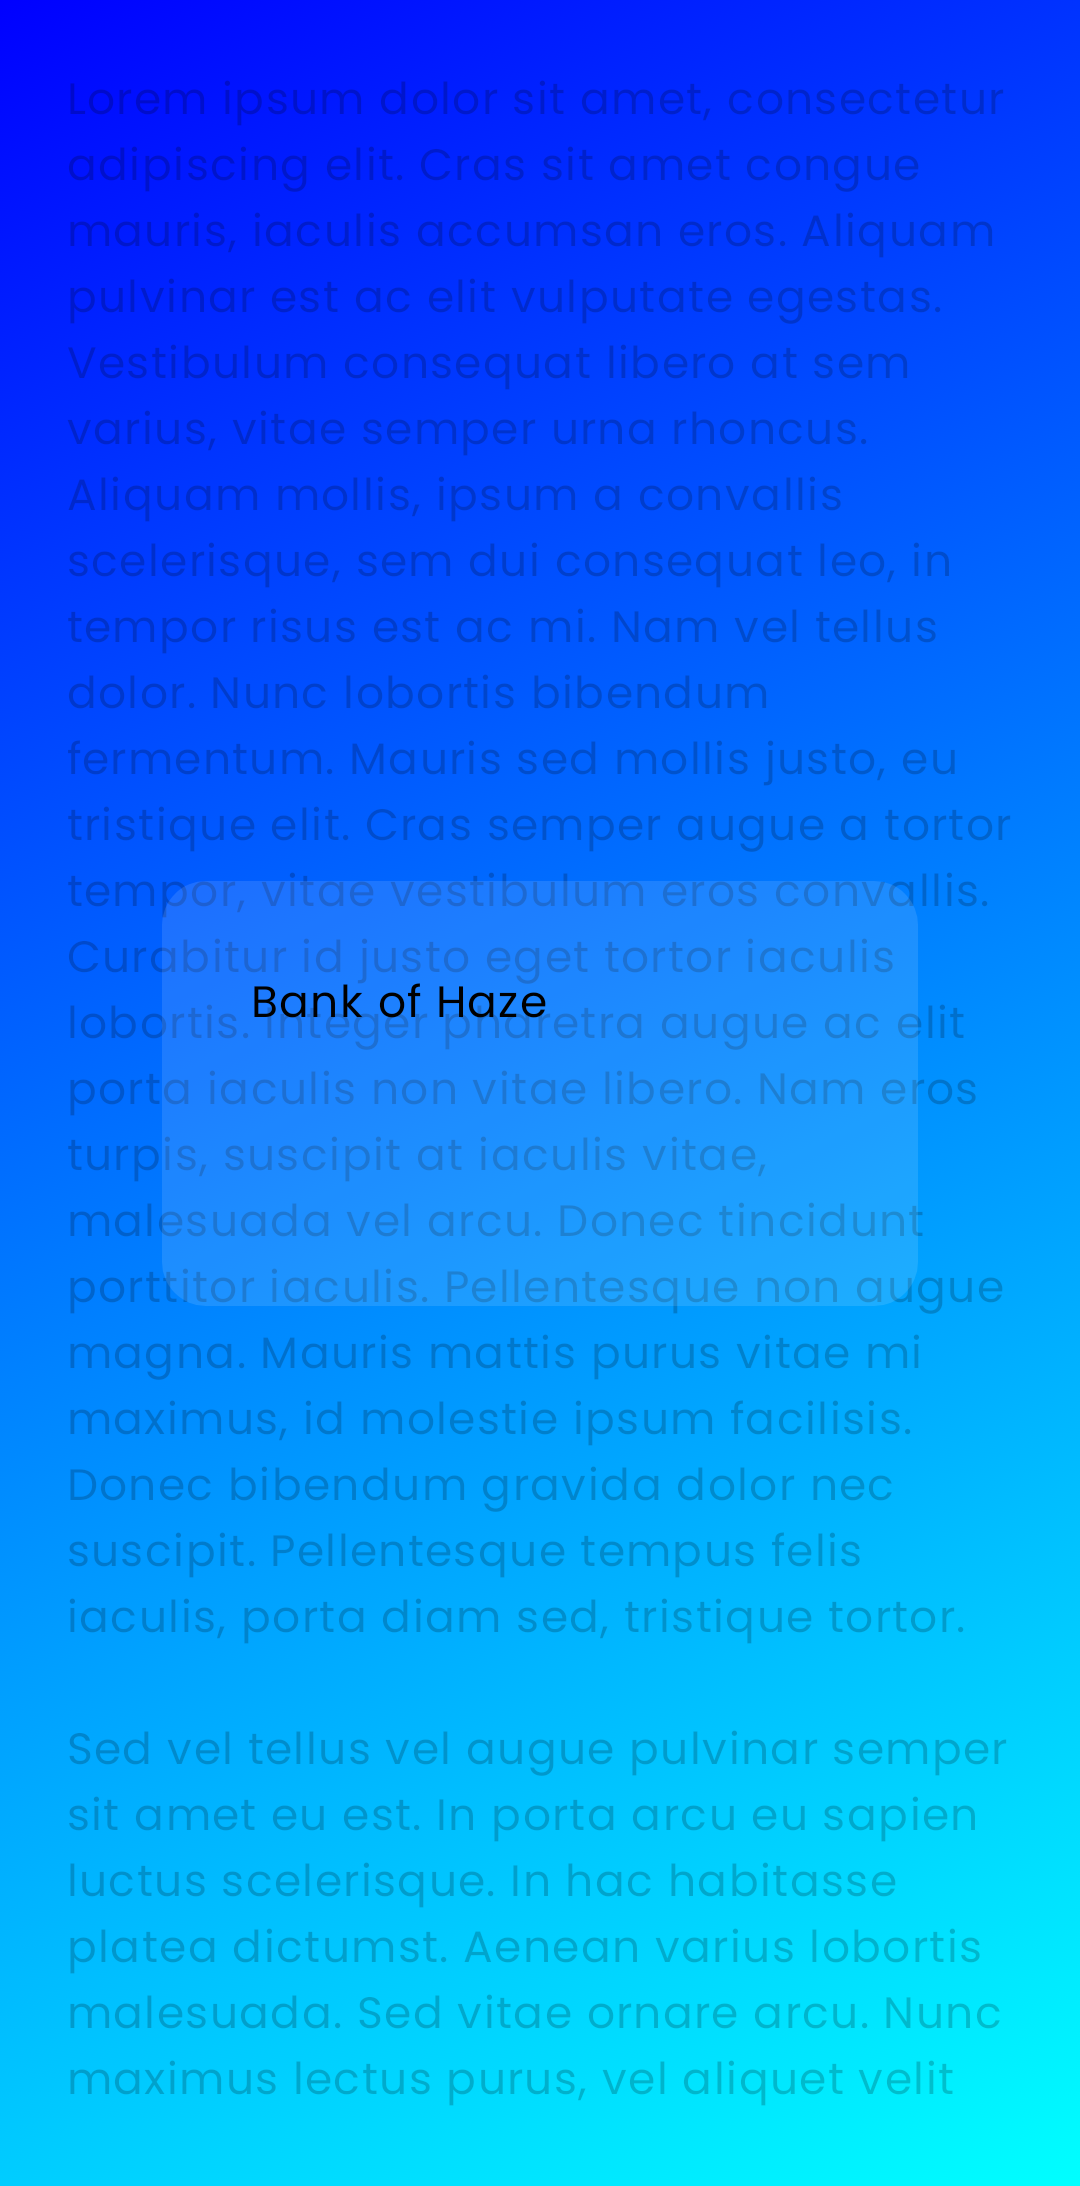
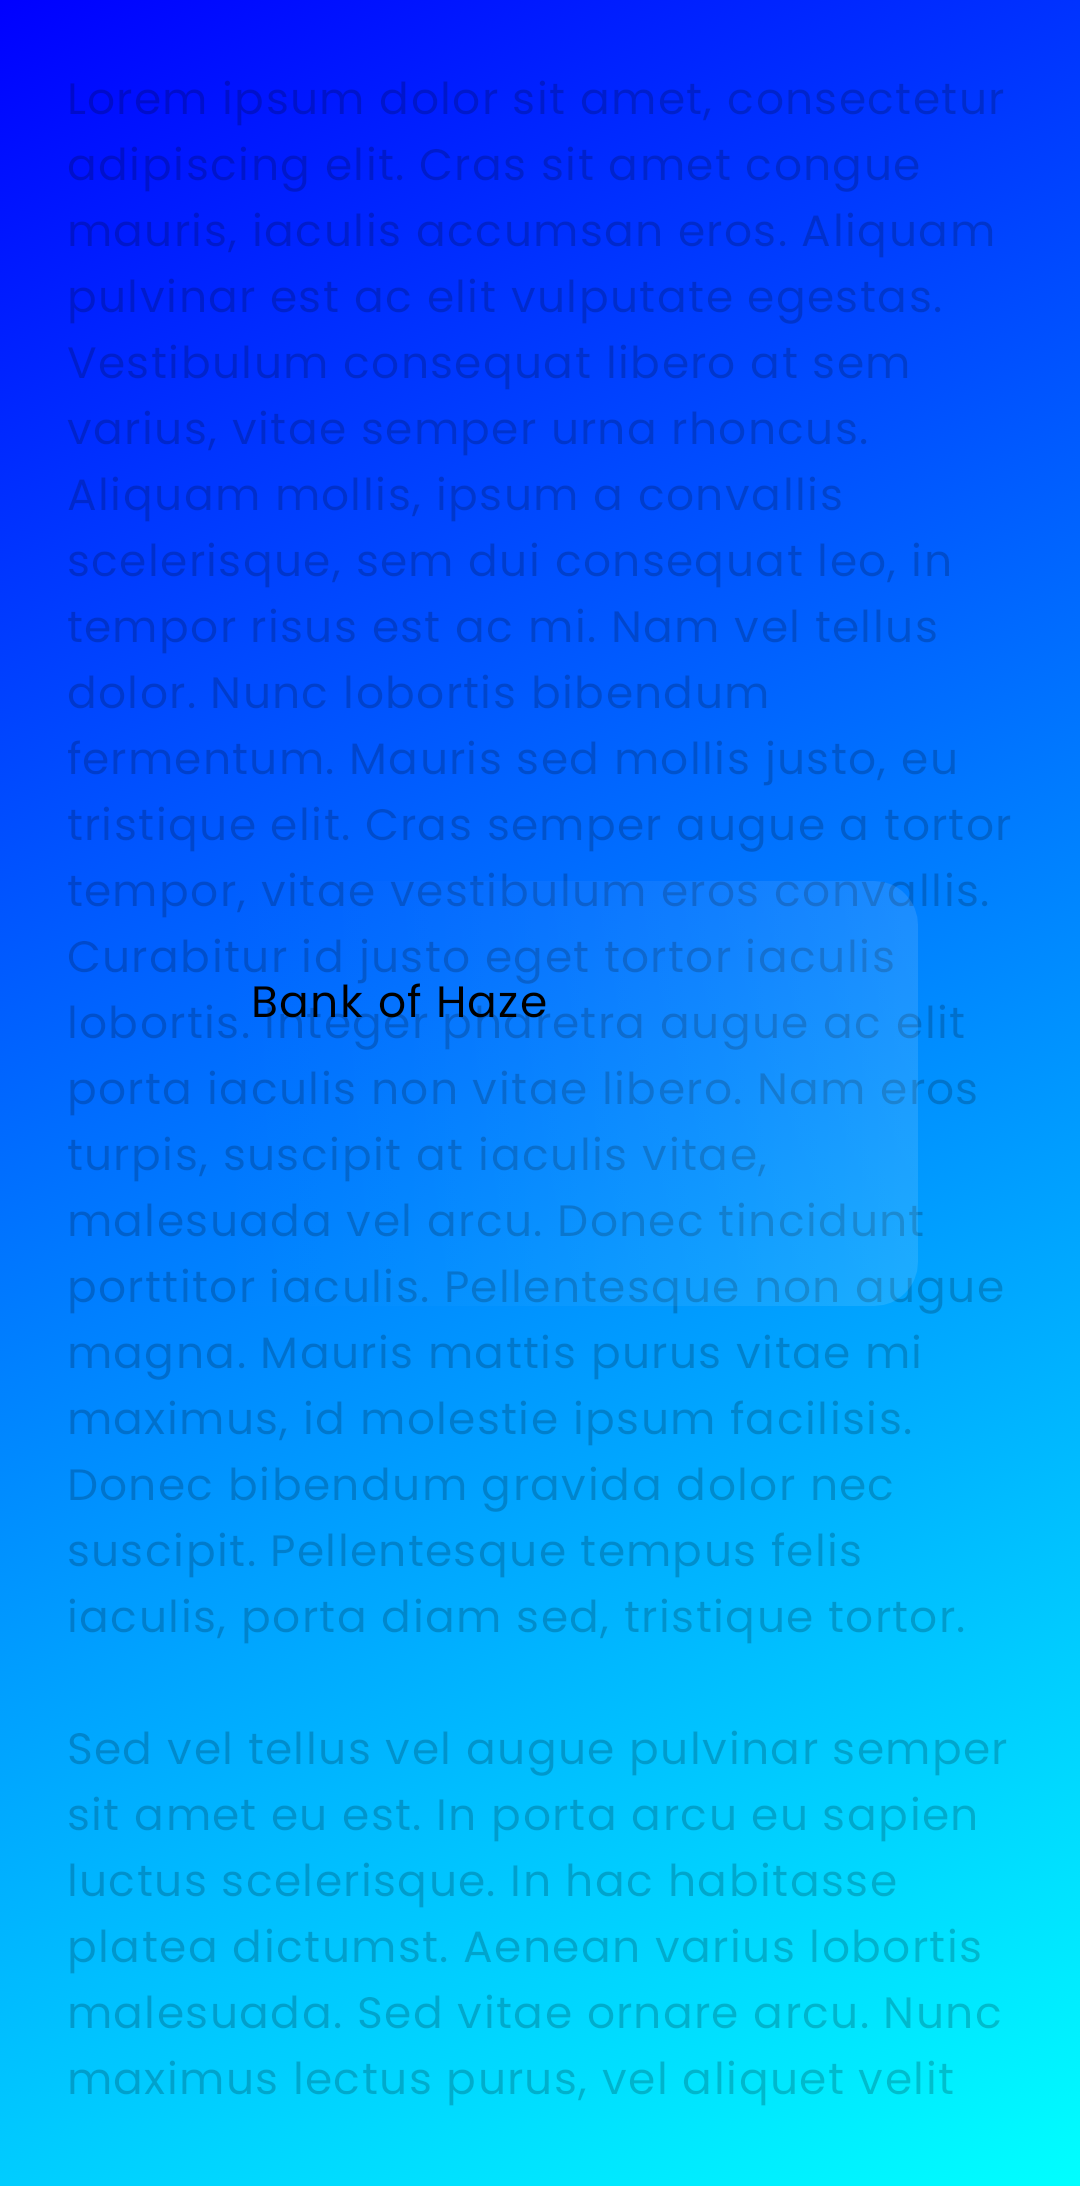
Implement fallback for HazeProgressive

Changed region(s): [[0.1528, 0.4044, 0.3972, 0.6221]]

diff --git a/haze/src/commonMain/kotlin/dev/chrisbanes/haze/HazeChildNode.kt b/haze/src/commonMain/kotlin/dev/chrisbanes/haze/HazeChildNode.kt
@@ -331,25 +331,28 @@ class HazeChildNode(
   private fun DrawScope.drawEffectWithScrim() {
     val scrimTint = resolveFallbackTint().takeIf { it.isSpecified }
       ?: resolveTints().firstOrNull()?.boostForFallback(resolveBlurRadius().takeOrElse { 0.dp })
+      ?: return
 
-    fun scrim() {
-      if (scrimTint != null) {
-        val m = mask
-        if (m != null) {
-          drawRect(brush = m, colorFilter = ColorFilter.tint(scrimTint.color))
-        } else {
-          drawRect(color = scrimTint.color, blendMode = scrimTint.blendMode)
-        }
+    fun scrim(tint: HazeTint) {
+      val m = mask
+      val p = progressive
+
+      if (m != null) {
+        drawRect(brush = m, colorFilter = ColorFilter.tint(tint.color))
+      } else if (p is HazeProgressive.LinearGradient) {
+        drawRect(brush = p.asBrush(), colorFilter = ColorFilter.tint(tint.color))
+      } else {
+        drawRect(color = tint.color, blendMode = tint.blendMode)
       }
     }
 
     if (alpha != 1f) {
       paint.alpha = alpha
       drawContext.canvas.withSaveLayer(size.toRect(), paint) {
-        scrim()
+        scrim(scrimTint)
       }
     } else {
-      scrim()
+      scrim(scrimTint)
     }
   }
 
@@ -393,13 +396,13 @@ class HazeChildNode(
  * Parameters for applying a progressive blur effect.
  */
 sealed interface HazeProgressive {
+
   /**
    * A linear gradient effect.
    *
    * You may wish to use the convenience builder functions provided in [horizontalGradient] and
    * [verticalGradient] for more common use cases.
    *
-   * @param steps - The number of steps in the effect. See [HazeProgressive.steps] for information.
    * @param easing - The easing function to use when applying the effect. Defaults to a
    * linear easing effect.
    * @param start - Starting position of the gradient. Defaults to [Offset.Zero] which
@@ -421,7 +424,6 @@ sealed interface HazeProgressive {
     /**
      * A vertical gradient effect.
      *
-     * @param steps - The number of steps in the effect. See [HazeProgressive.steps] for information.
      * @param easing - The easing function to use when applying the effect. Defaults to a
      * linear easing effect.
      * @param startY - Starting x position of the horizontal gradient. Defaults to 0 which
@@ -448,7 +450,6 @@ sealed interface HazeProgressive {
     /**
      * A horizontal gradient effect.
      *
-     * @param steps - The number of steps in the effect. See [HazeProgressive.steps] for information.
      * @param easing - The easing function to use when applying the effect. Defaults to a
      * linear easing effect.
      * @param startX - Starting x position of the horizontal gradient. Defaults to 0 which

diff --git a/haze/src/commonMain/kotlin/dev/chrisbanes/haze/Gradient.kt b/haze/src/commonMain/kotlin/dev/chrisbanes/haze/Gradient.kt
@@ -10,7 +10,7 @@ internal fun HazeProgressive.LinearGradient.asBrush(numStops: Int = 20): Brush {
   return Brush.linearGradient(
     colors = List(numStops) { i ->
       val x = i * 1f / (numStops - 1)
-      Color.Black.copy(alpha = lerp(startIntensity, endIntensity, easing.transform(x)))
+      Color.Magenta.copy(alpha = lerp(startIntensity, endIntensity, easing.transform(x)))
     },
     start = start,
     end = end,
